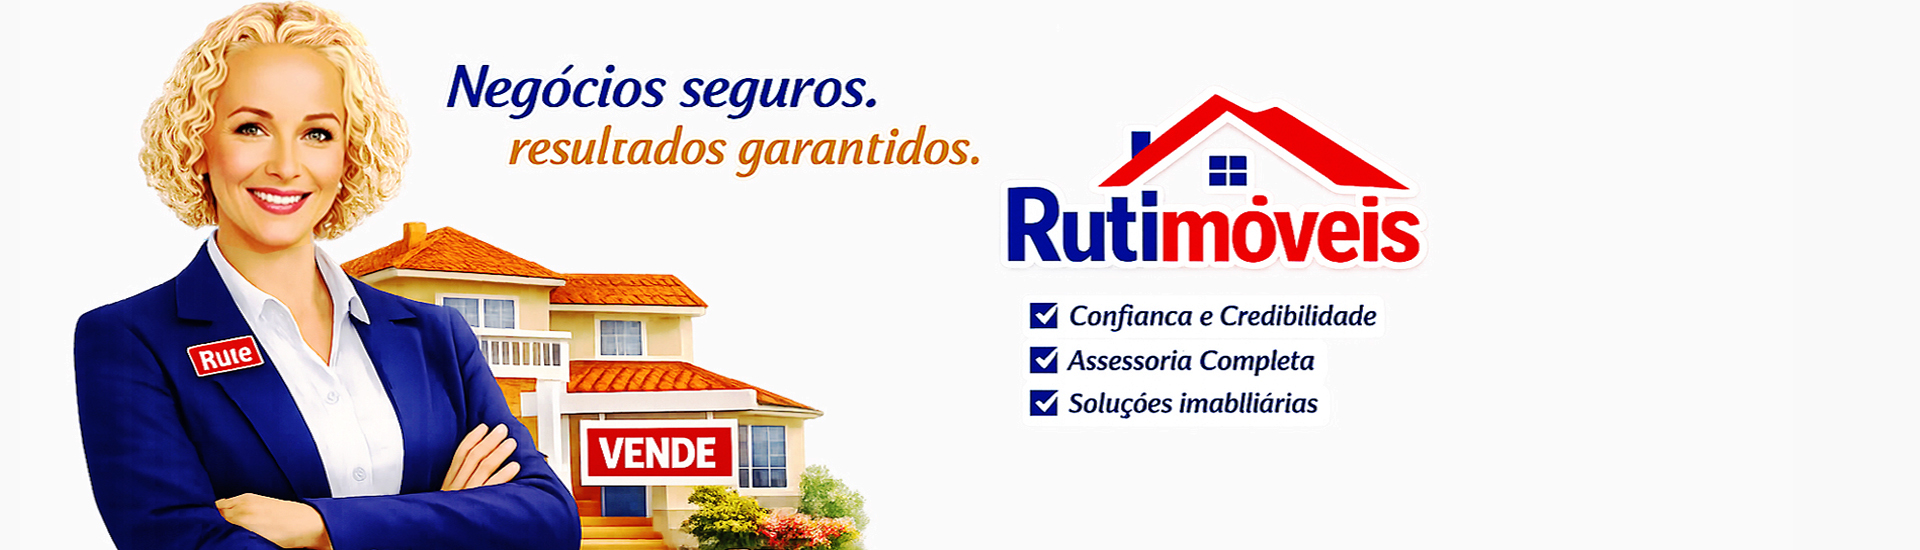
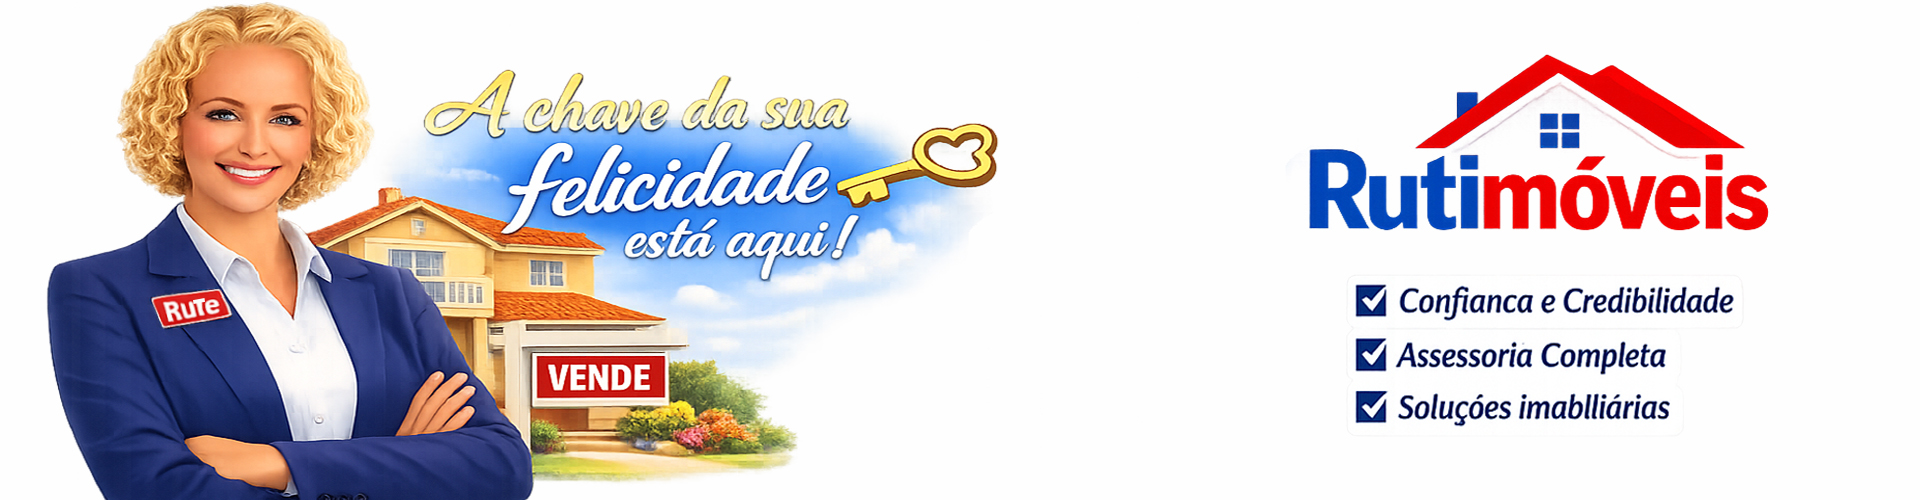
Add files via upload

diff --git a/css/cadastro.css b/css/cadastro.css
@@ -27,7 +27,7 @@ cursor: pointer;
 }
 body{
 font-family: 'Poppins', sans-serif;
-background-color: rgb(66, 0, 44);
+background-color: rgb(255, 255, 255);
 margin: 0%;
 padding: 0%;
 
@@ -36,7 +36,7 @@ padding: 0%;
   margin: auto;
 width: 100%;     
 max-width: 1920px; 
-background-color: rgb(246, 248, 255);
+background-color: rgb(255, 255, 255);
 
 }
 header{
@@ -928,7 +928,7 @@ footer{
 width: 100%;
 max-width: 1920px;
 height:55vh;
-border-top: 10px solid rgb(243, 248, 255);
+border-top: 10px solid rgb(255, 255, 255);
 background-color: rgb(255, 255, 255);
   background-image: url('../src/Bannerjpg2.jpg');
   background-repeat: no-repeat;